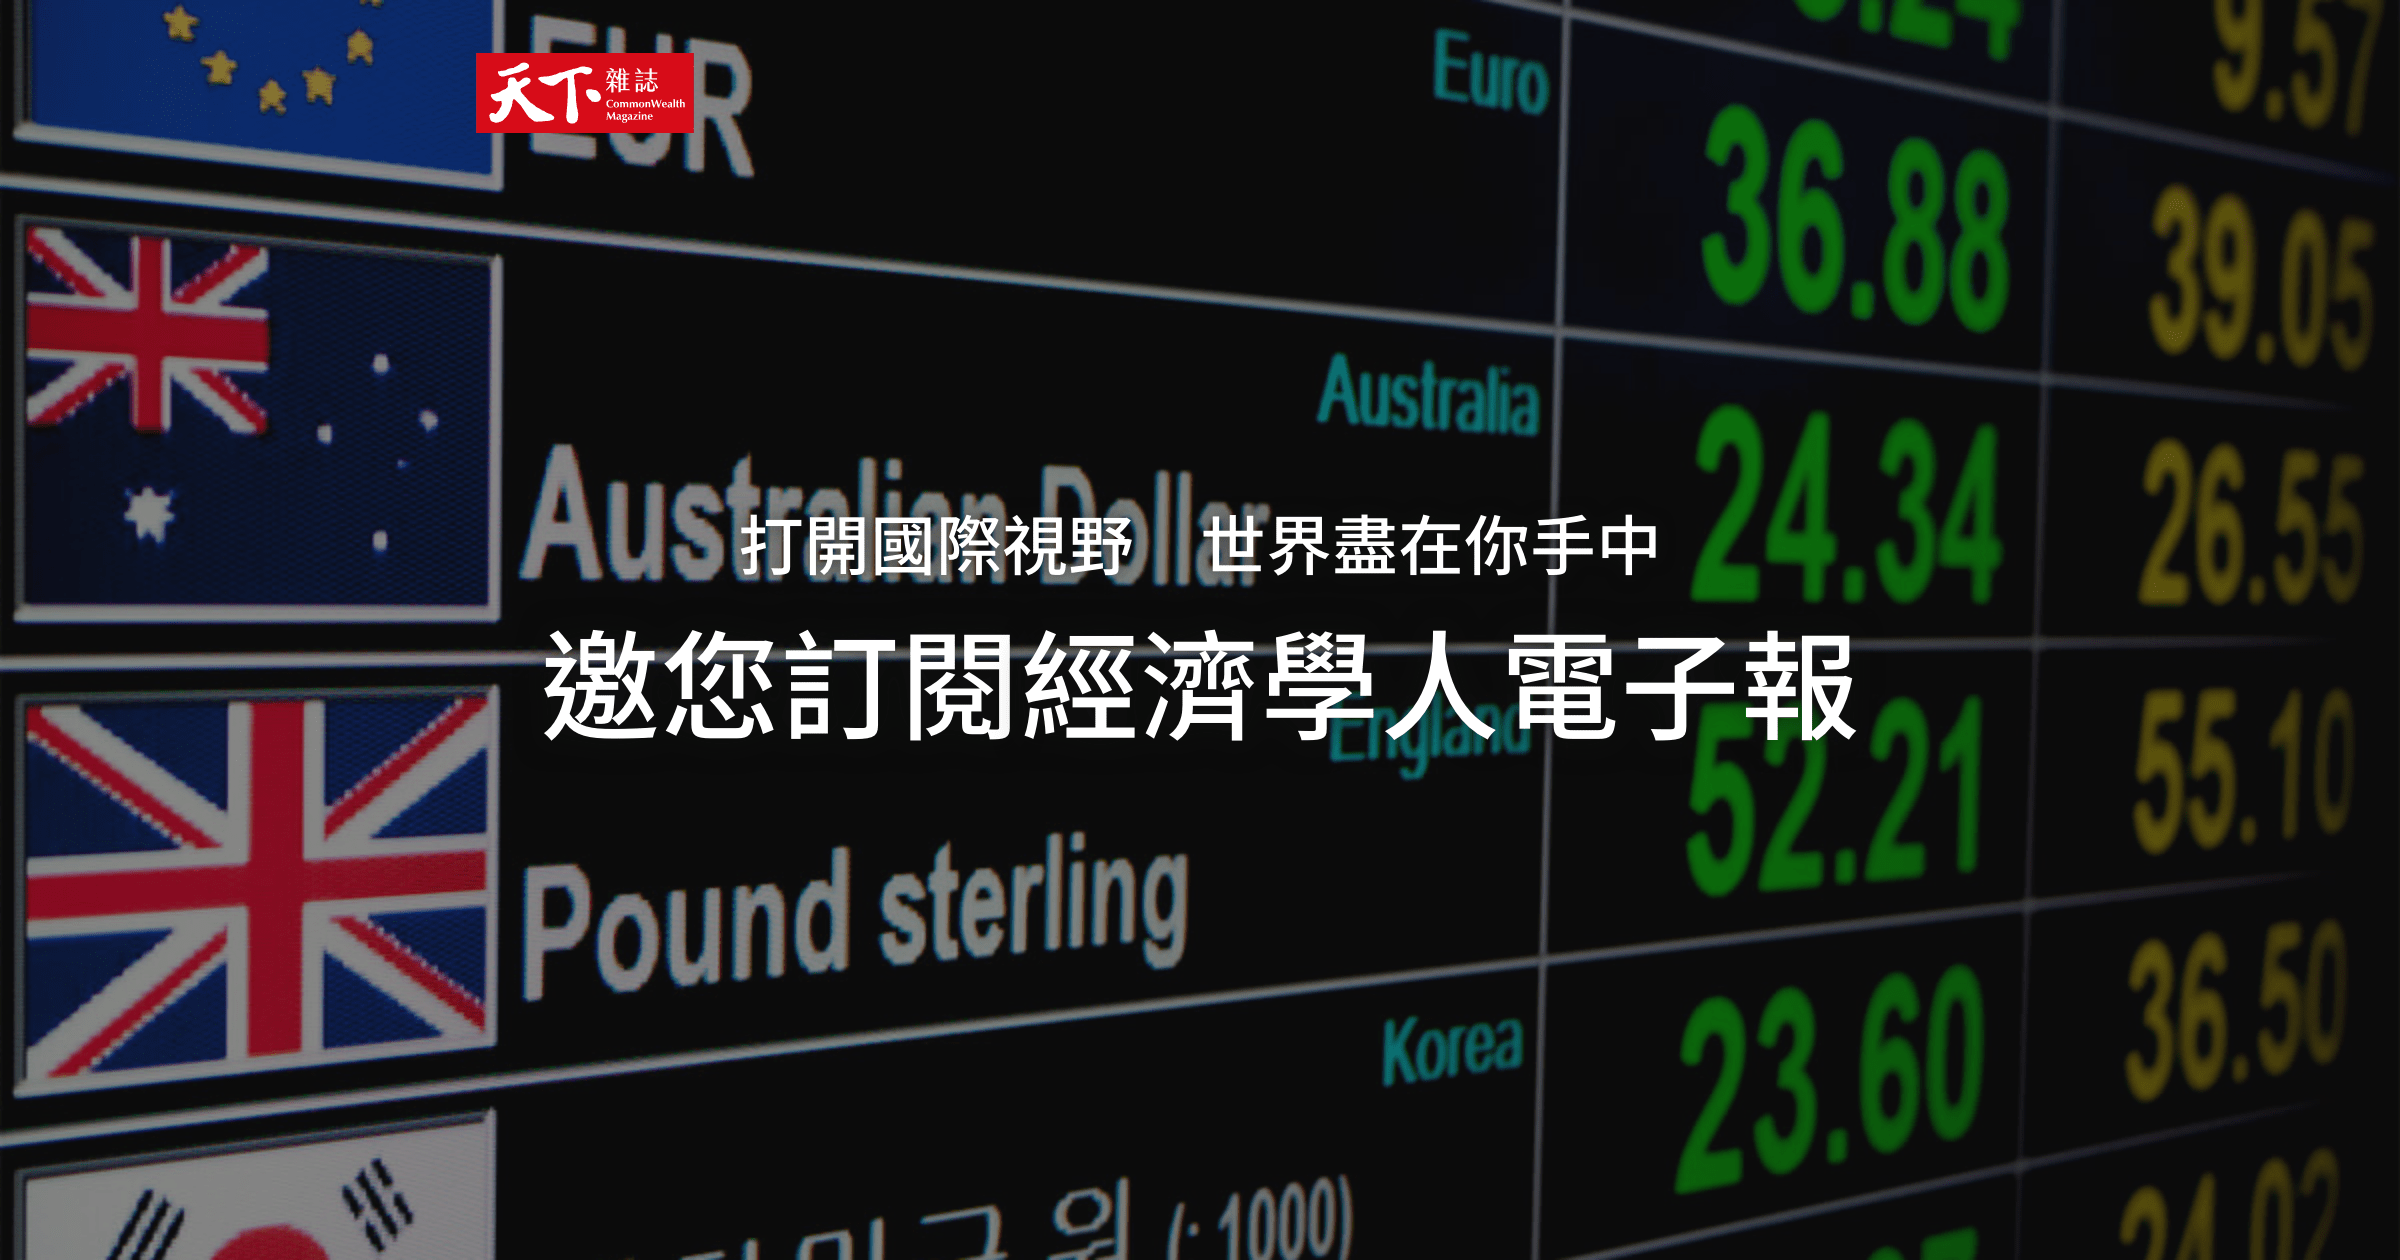
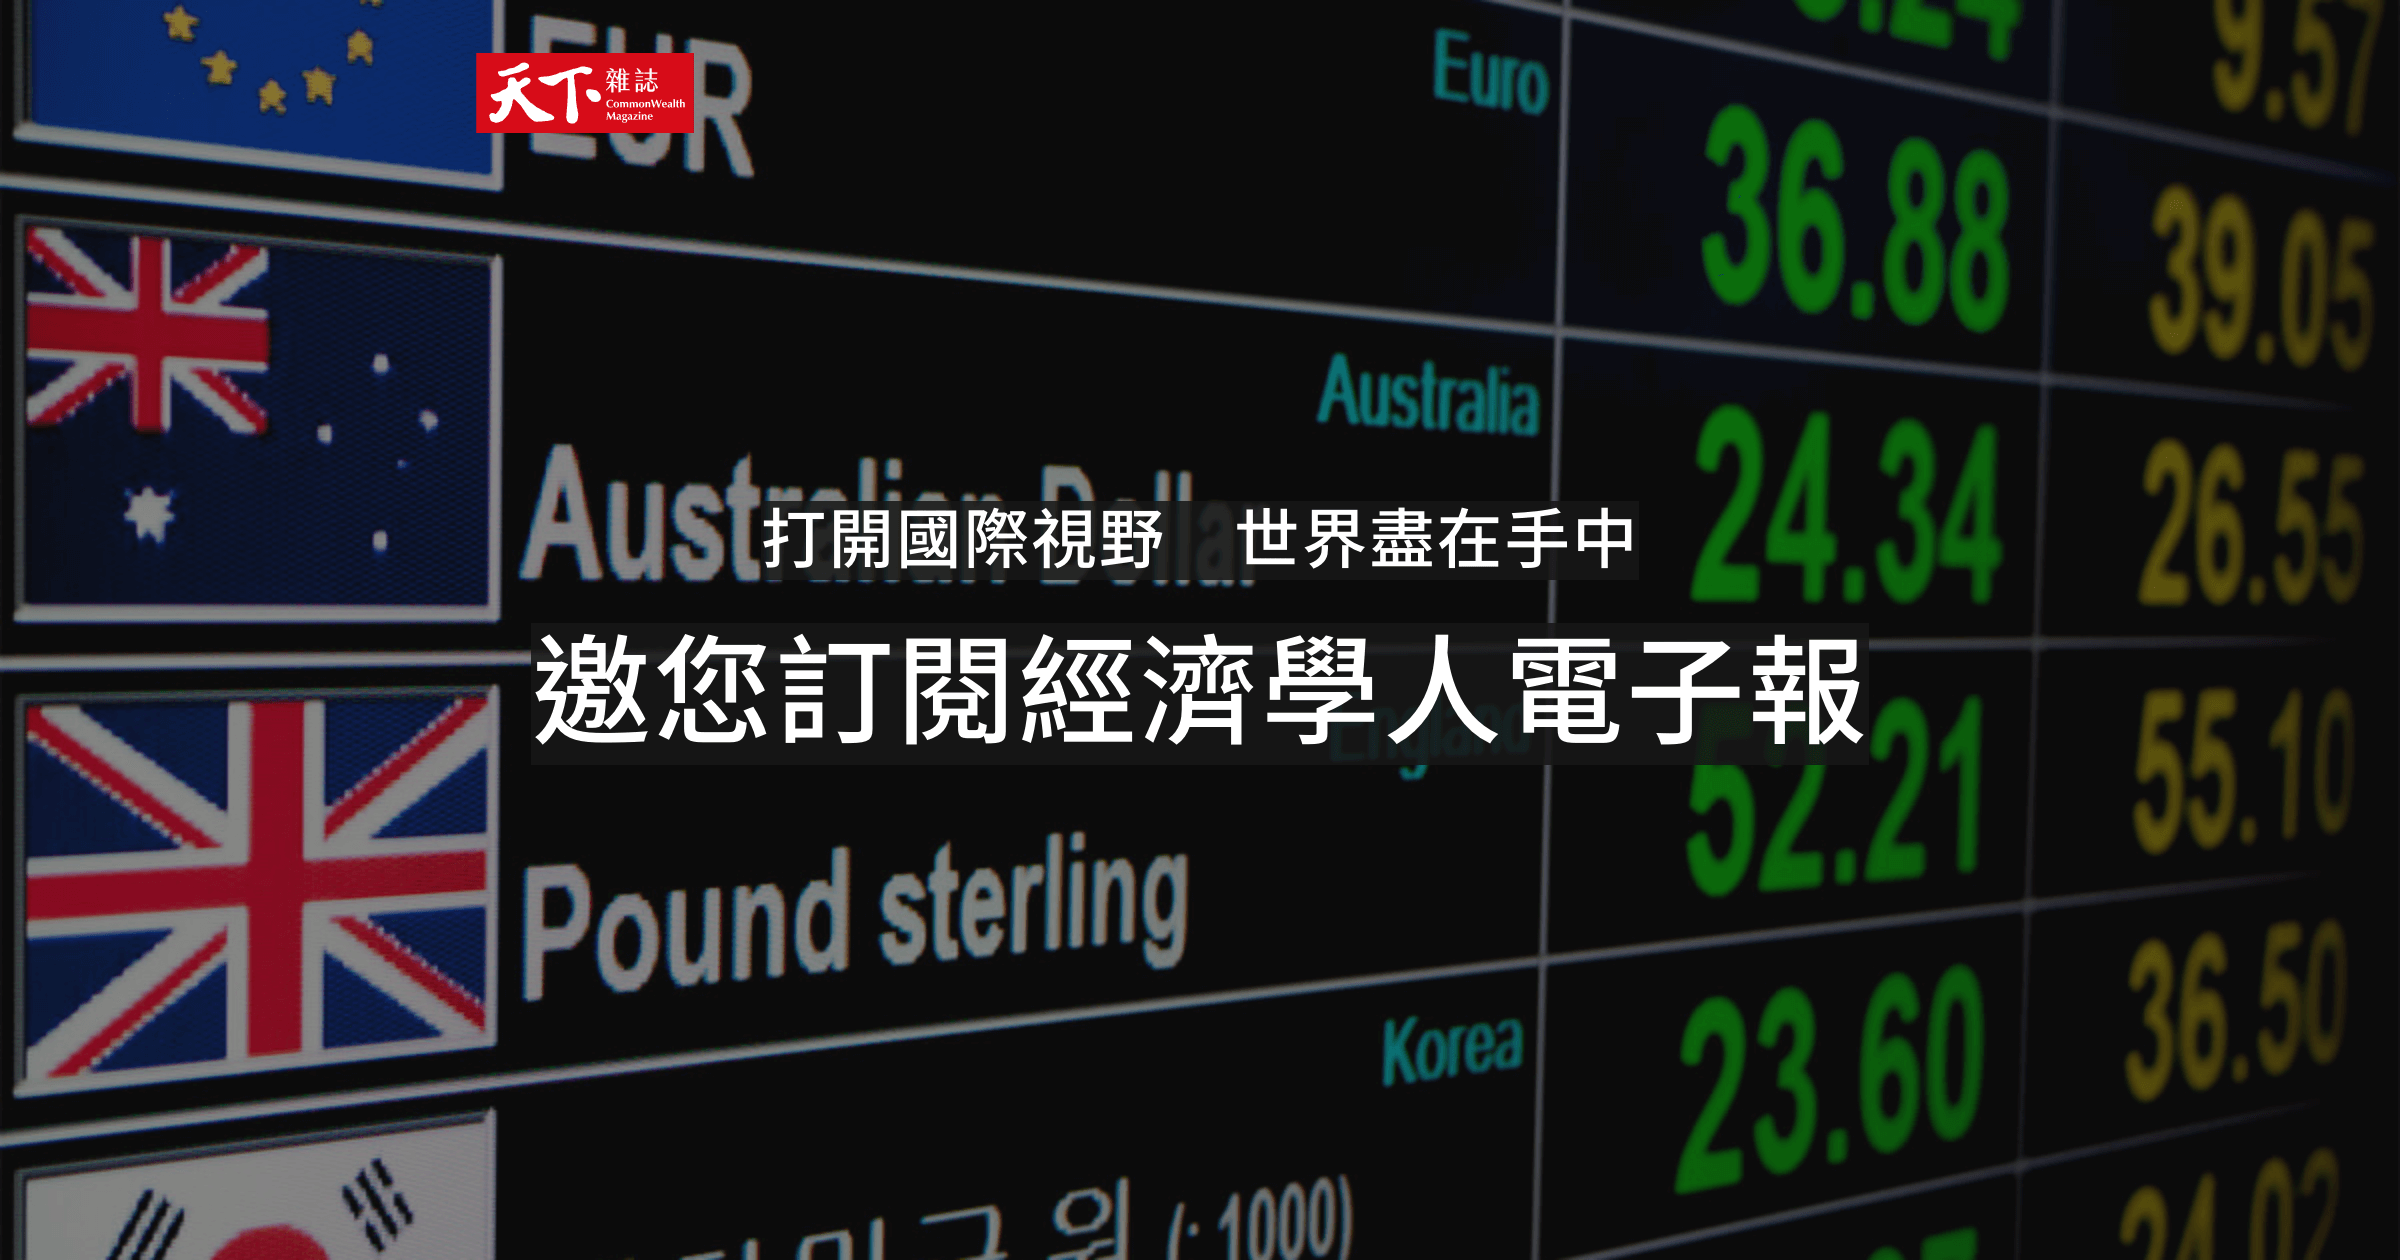
修改行高及meta img

Changed region(s): [[0.2188, 0.4952, 0.7812, 0.619], [0.3125, 0.3714, 0.6875, 0.4643]]

diff --git a/cwdaily.html b/cwdaily.html
@@ -3,17 +3,18 @@
 <head>
 	<meta charset="UTF-8">
 	<meta http-equiv="X-UA-Compatible" content="IE=edge">
+	<meta name="viewport" content="width=device-width, initial-scale=1.0">
 	<link rel="shortcut icon" href="https://www.cw.com.tw/assets_new/img/favicon.ico" type="image/x-icon" />
 	<title>掌握世界每日趨勢：邀您訂閱天下每日報</title>
 	<meta name="keywords" content="每日精選,語音朗讀,天下每日報,天下雜誌">
 	<meta name="description" content="《每日報》每天早晨發送，加值享受語音朗讀，掌握最新趨勢無需低頭。">
-	 <meta property="og:title" content="掌握世界每日趨勢：邀您訂閱天下每日報">
-	 <meta property="og:type" content="website" />
-	 <meta property="og:url" content="https://web.cw.com.tw/newsletter/intro/cwdaily.html" />
-	 <meta property="og:image" content="https://web.cw.com.tw/newsletter/intro/assets/images/share/cwdaily.png" />
-	 <meta property="og:site_name" content="掌握世界每日趨勢：邀您訂閱天下每日報"/>
-	 <meta property="og:locale" content="zh_TW" />
-	 <meta property="og:description" content="《每日報》每天早晨發送，加值享受語音朗讀，掌握最新趨勢無需低頭。">
+	<meta property="og:title" content="掌握世界每日趨勢：邀您訂閱天下每日報">
+	<meta property="og:type" content="website" />
+	<meta property="og:url" content="https://web.cw.com.tw/newsletter/intro/cwdaily.html" />
+	<meta property="og:image" content="https://web.cw.com.tw/newsletter/intro/assets/images/share/cwdaily.png" />
+	<meta property="og:site_name" content="掌握世界每日趨勢：邀您訂閱天下每日報"/>
+	<meta property="og:locale" content="zh_TW" />
+	<meta property="og:description" content="《每日報》每天早晨發送，加值享受語音朗讀，掌握最新趨勢無需低頭。">
 	<link rel="stylesheet" href="assets/css/main.css">
 	<link rel="stylesheet" href="https://cdnjs.cloudflare.com/ajax/libs/slick-carousel/1.8.1/slick.min.css">
 	<link rel="stylesheet" href="assets/css/cwdaily.css">
@@ -40,8 +41,8 @@
 					<div class="row">
 						<div class="col-lg-4 col-md-6 col-sm-4 col-xs-2 col-1"></div>
 						<div class="col-lg-8 col-md-6 col-sm-8 col-xs-10 col-11 text-right">
-							<h2 class="p-5 mx-auto mt-0 mb-10 line-height-1000">掌握世界每日趨勢</h2>
-							<h1 class="p-5 mx-auto my-0 line-height-1000">
+							<h2 class="p-5 mx-auto mt-0 mb-10 line-height-1125">掌握世界每日趨勢</h2>
+							<h1 class="p-5 mx-auto my-0 line-height-1125">
 								<span class="display-xs-inline display-inline-block">邀您訂閱</span><span class="display-xs-inline display-inline-block">天下每日報</span>
 							</h1>
 						</div>

diff --git a/economist.html b/economist.html
@@ -3,6 +3,7 @@
 <head>
 	<meta charset="UTF-8">
 	<meta http-equiv="X-UA-Compatible" content="IE=edge">
+	<meta name="viewport" content="width=device-width, initial-scale=1.0">
 	<link rel="shortcut icon" href="https://www.cw.com.tw/assets_new/img/favicon.ico" type="image/x-icon" />
 	<title>打開國際視野　世界盡在你手中：邀您訂閱經濟學人電子報</title>
 	<meta name="keywords" content="國際要聞,經濟學人,天下雜誌">
@@ -37,9 +38,9 @@
 		<div class="container">
 			<div class="row">
 				<div class="col-lg-8 col-md-10 col-11 text-center">
-					<h2 class="display-md-table display-inline-grid p-5 mx-auto mt-0 mb-10 color-white line-height-1000">打開國際視野　世界盡在你手中</h2>
-					<h1 class="display-md-table display-inline-grid p-5 mx-auto my-0 color-white line-height-1000">
-						<span class="display-xs-inline display-inline-block">邀您訂閱</span><span class="display-xs-inline display-inline-block">經濟學人電子報</span>
+					<h2 class="display-md-table p-5 mx-auto mt-0 mb-10 color-white line-height-1125"><span class="display-xs-inline display-inline-block">打開國際視野　世界盡在手中</span></h2>
+					<h1 class="display-md-table p-5 mx-auto my-0 color-white line-height-sm-1125 line-height-1500">
+						<span class="display-sm-inline display-xs-table display-inline-block mx-auto">邀您訂閱</span><span class="display-sm-inline display-xs-table display-inline-block mx-auto">經濟學人電子報</span>
 					</h1>
 				</div>
 			</div>

diff --git a/fashion.html b/fashion.html
@@ -47,10 +47,10 @@
 		</div>
 		<div class="container">
 			<div class="row">
-				<div class="col-lg-8 col-md-10 col-12 text-center">
-					<h2 class="display-md-table display-inline-grid mx-auto mt-0 mb-10 serif color-white font-weight-600 line-height-1250">生活風格全指南</h2>
-					<h1 class="display-md-table display-inline-grid mx-auto my-0 serif color-white font-weight-600 line-height-1250">
-						<span class="display-xs-inline display-inline-block">邀您訂閱</span><span class="display-xs-inline display-inline-block">Off學時尚生活電子報</span>
+				<div class="col-lg-8 col-md-10 col-11 serif text-center">
+					<h2 class="display-md-table p-5 mx-auto mt-0 mb-10 color-white font-weight-600 line-height-1125"><span class="display-xs-inline display-inline-block">生活風格全指南</span></h2>
+					<h1 class="display-md-table p-5 mx-auto my-0 color-white font-weight-600 line-height-sm-1125 line-height-1500">
+						<span class="display-sm-inline display-xs-table display-inline-block mx-auto">邀您訂閱</span><span class="display-sm-inline display-xs-table display-inline-block mx-auto">Off學時尚生活電子報</span>
 					</h1>
 				</div>
 			</div>

diff --git a/cwedm.html b/cwedm.html
@@ -37,10 +37,10 @@
 	<section class="opening">
 		<div class="container">
 			<div class="row">
-				<div class="col-lg-8 col-md-10 col-11">
-					<h2 class="display-md-table display-inline-grid p-5 mx-auto mt-0 mb-10 color-white line-height-1000">深度觀點　即時解析</h2>
-					<h1 class="display-md-table display-inline-grid p-5 mx-auto my-0 color-white line-height-1000">
-						<span class="display-xs-inline display-inline-block">邀您訂閱</span><span class="display-xs-inline display-inline-block">天下電子報</span>
+				<div class="col-lg-8 col-md-10 col-11 text-center">
+					<h2 class="display-md-table p-5 mx-auto mt-0 mb-10 color-white line-height-1125"><span class="display-xs-inline display-inline-block">深度觀點　即時解析</span></h2>
+					<h1 class="display-md-table p-5 mx-auto my-0 color-white line-height-sm-1125 line-height-1500">
+						<span class="display-sm-inline display-xs-table display-inline-block mx-auto">邀您訂閱</span><span class="display-sm-inline display-xs-table display-inline-block mx-auto">天下電子報</span>
 					</h1>
 				</div>
 			</div>

diff --git a/transformers.html b/transformers.html
@@ -40,9 +40,9 @@
 		<div class="container">
 			<div class="row">
 				<div class="col-lg-8 col-md-10 col-11 text-center">
-					<h2 class="display-md-table display-inline-grid p-5 mx-auto mt-0 mb-10 color-white line-height-1000">逆勢成長 最佳解方</h2>
-					<h1 class="display-md-table display-inline-grid p-5 mx-auto my-0 color-white line-height-1000">
-						<span class="display-xs-inline display-inline-block">邀您訂閱</span><span class="display-xs-inline display-inline-block">企業突圍電子報</span>
+					<h2 class="display-md-table p-5 mx-auto mt-0 mb-10 color-white line-height-1125"><span class="display-xs-inline display-inline-block">逆勢成長 最佳解方</span></h2>
+					<h1 class="display-md-table p-5 mx-auto my-0 color-white line-height-sm-1125 line-height-1500">
+						<span class="display-sm-inline display-xs-table display-inline-block mx-auto">邀您訂閱</span><span class="display-sm-inline display-xs-table display-inline-block mx-auto">企業突圍電子報</span>
 					</h1>
 				</div>
 			</div>

diff --git a/cwenglish.html b/cwenglish.html
@@ -40,7 +40,7 @@
 		<div class="container">
 			<div class="row">
 				<div class="col-lg-8 col-md-10 col-11">
-					<h1 class="p-5 mx-auto my-0 serif color-white font-weight-600 line-height-1000 text-center">
+					<h1 class="p-5 mx-auto my-0 serif color-white font-weight-600 line-height-1125 text-center">
 						CommonWealth English Newsletter
 					</h1>
 				</div>
